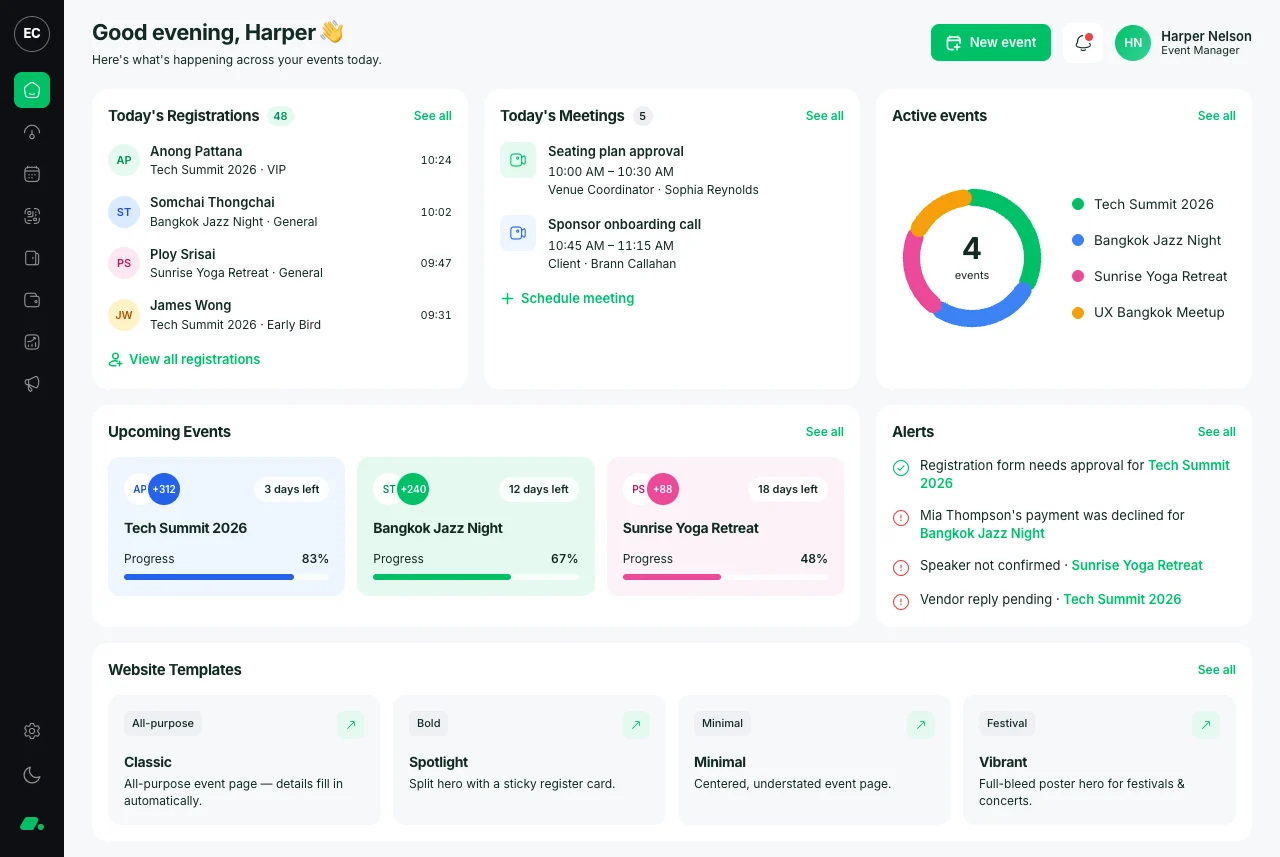
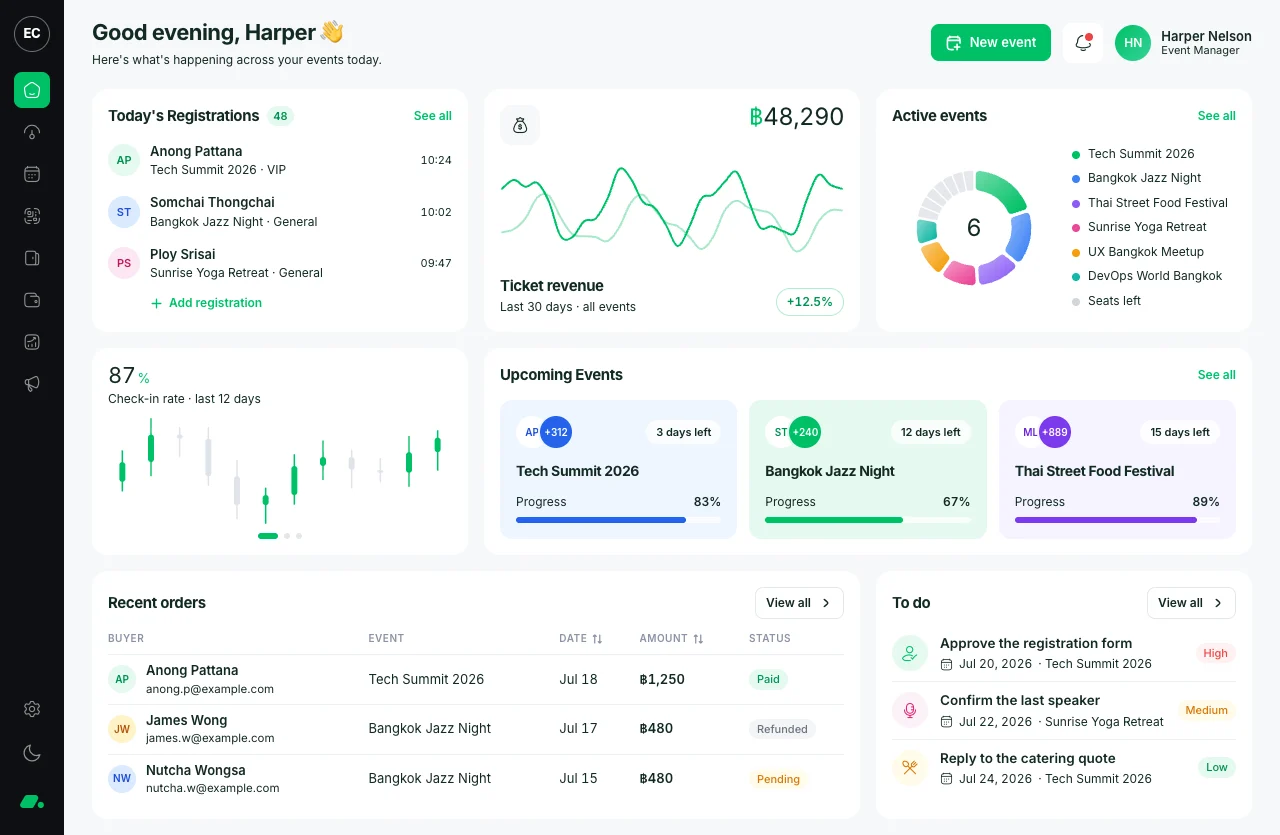
Retake the hero from the new Home dashboard
The kit's Home page was rebuilt, so the hero is captured again at
1280x835 (was 1280x857). The 70/30 overlap and fade are recalculated
for the new height on desktop and phones; the alt text describes the
new screen and AGENTS.md records the viewport.

diff --git a/css/styles.css b/css/styles.css
@@ -650,12 +650,12 @@ html:not(.js) .nav,
    --hero-gap: space between the copy and the product window.
    --hero-overlap: 70% of the frame's height. The frame is as wide as the
    container (100% less 48px of padding, at most 1152px); inside it, 22px of
-   padding and border hold the 1280 x 857 capture. That works out to 46.87% of
-   the width less 17.41px, at most 545px. (Margin and padding percentages
+   padding and border hold the 1280 x 835 capture. That works out to 45.66% of
+   the width less 16.56px, at most 531.4px. (Margin and padding percentages
    are shares of the width.) */
 .hero {
   --hero-gap: 64px;
-  --hero-overlap: min(545px, 46.87% - 17.41px);
+  --hero-overlap: min(531.4px, 45.66% - 16.56px);
   padding-top: var(--nav-h);
 }
 
@@ -668,7 +668,7 @@ html:not(.js) .nav,
    window sits above the card, so it stays sharp. --hero-fade is how tall the
    fade is. */
 .hero__panel {
-  --hero-fade: 476px;
+  --hero-fade: 464px;
   margin: 0 clamp(8px, 1.4vw, 20px);
   padding: 56px 0 calc(var(--hero-gap) + var(--hero-overlap));
   overflow: hidden;
@@ -1775,17 +1775,17 @@ html:not(.js) .nav,
     padding: 0 16px;
   }
 
-  /* Phones show the same 1280 x 857 capture. The frame is as wide as the
+  /* Phones show the same 1280 x 835 capture. The frame is as wide as the
      container (100% less 32px of padding), with 18px of padding and border
-     around the capture: 70% of its height is 46.87% of the width less 10.83px.
+     around the capture: 70% of its height is 45.66% of the width less 10.23px.
      The fade starts below the frame's top edge, as on desktop. */
   .hero {
     --hero-gap: 40px;
-    --hero-overlap: calc(46.87% - 10.83px);
+    --hero-overlap: calc(45.66% - 10.23px);
   }
 
   .hero__panel {
-    --hero-fade: calc(41vw - 9.5px);
+    --hero-fade: calc(40vw - 9px);
     padding-top: 36px;
     border-radius: 26px 26px 0 0;
   }

diff --git a/index.html b/index.html
@@ -176,10 +176,10 @@
                   srcset="assets/shots/hero@1x.webp 1280w, assets/shots/hero@2x.webp 2560w"
                   sizes="(max-width: 720px) calc(100vw - 50px), min(1130px, calc(100vw - 70px))"
                   width="1280"
-                  height="857"
+                  height="835"
                   fetchpriority="high"
                   decoding="async"
-                  alt="The Eventa home screen: 48 registrations and 5 meetings today, 4 active events, three upcoming events at 83%, 67% and 48% progress, alerts that need attention and event page templates."
+                  alt="The Eventa home screen: 48 registrations today, ฿48,290 in ticket revenue over the last 30 days (up 12.5%), 6 active events with 78% of seats sold, an 87% check-in rate, three upcoming events, recent orders and a to-do list."
                 />
               </div>
             </div>

diff --git a/AGENTS.md b/AGENTS.md
@@ -62,7 +62,7 @@ grep -n PLACEHOLDER index.html   # undecided links, contact channel, beta notice
 
 `ls assets/shots` lists the shots (`<name>@1x.webp` and `@2x`). Each one's kit page is in the
 `index.html` comment before it; the hero's is `admin/home.html`. No repo holds the capture
-script, so record each shot's viewport here: hero 1280×857; feature-sales, feature-attendees,
+script, so record each shot's viewport here: hero 1280×835; feature-sales, feature-attendees,
 solution-workshops-survey 1440×900; feature-messaging 760×900; solution-conferences,
 solution-concerts 760×1100; solution-workshops 1000×900.
 
